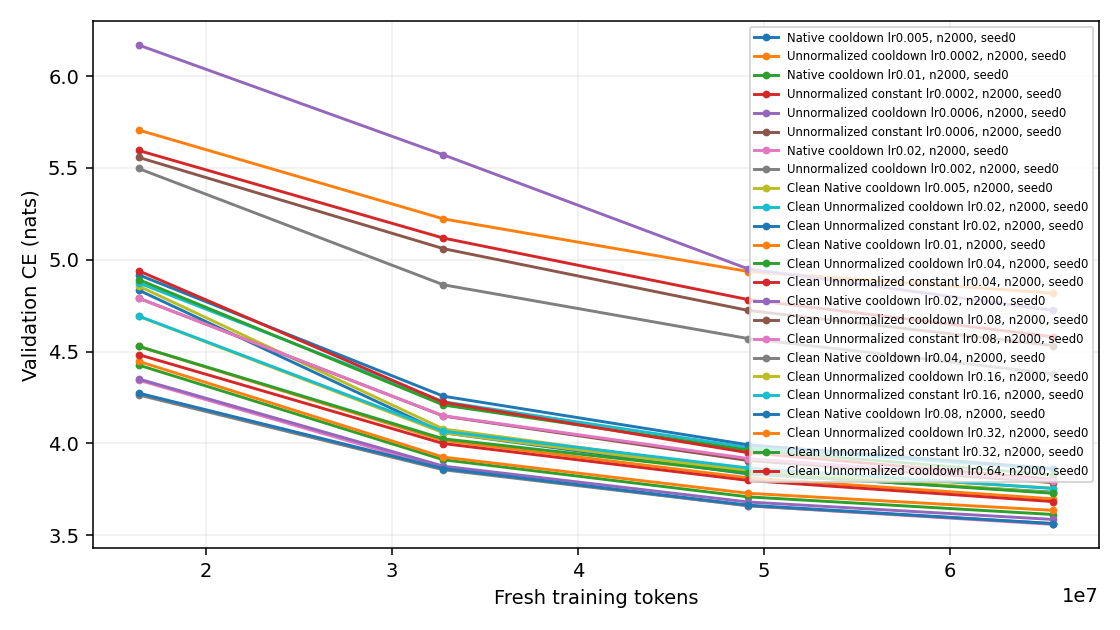
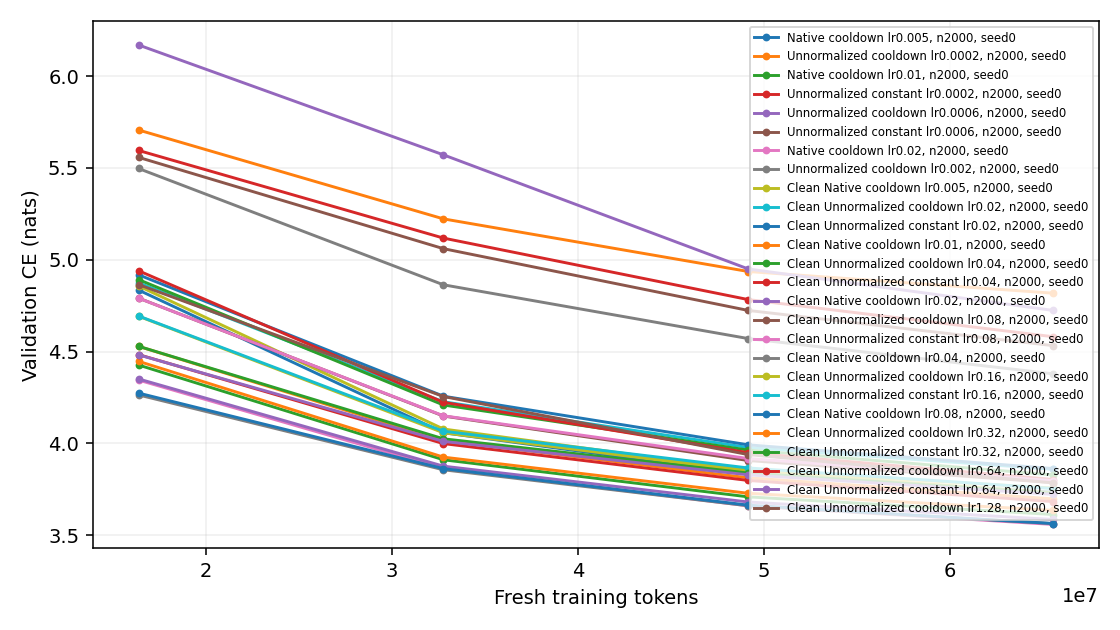
Update live Muon experiment results

diff --git a/research/unnormalized_muon/RESULTS.md b/research/unnormalized_muon/RESULTS.md
@@ -22,6 +22,8 @@ One B300 per job. CE is token cross-entropy (nats); lower is better. Rows with d
 | um-clean-grid-04-1-cooldown-lr0p32 | Clean Unnormalized cooldown | 2000 | 0 | 0.32 | 3.698252 | 1.121036 | — | 157.86 |
 | um-clean-grid-04-2-constant-lr0p32 | Clean Unnormalized constant | 2000 | 0 | 0.32 | 3.728677 | 1.130279 | — | 151.60 |
 | um-clean-grid-05-1-cooldown-lr0p64 | Clean Unnormalized cooldown | 2000 | 0 | 0.64 | 3.683407 | 1.116578 | — | 157.17 |
+| um-clean-grid-05-2-constant-lr0p64 | Clean Unnormalized constant | 2000 | 0 | 0.64 | 3.722817 | 1.128555 | — | 158.73 |
+| um-clean-grid-06-1-cooldown-lr1p28 | Clean Unnormalized cooldown | 2000 | 0 | 1.28 | 3.785215 | 1.147408 | — | 148.29 |
 | um-fw-diagnostic-001 | FW backtracking | 64 | 0 | 0.02 | 6.469995 | 1.960658 | — | 95.07 |
 | um-fw-diagnostic-002 | FW backtracking | 64 | 0 | 0.02 | 6.900428 | 2.091122 | — | 117.14 |
 | um-screen-00-0-native-lr0p005 | Native cooldown | 2000 | 0 | 0.005 | 3.734536 | 1.132046 | — | 145.49 |
@@ -37,7 +39,7 @@ One B300 per job. CE is token cross-entropy (nats); lower is better. Rows with d
 
 Review of um-fw-diagnostic-001: Compiled training f0 compared against functional candidate losses; vanishing-step mismatch2-4e-5 exceeded tolerance, leading to curvature1e186 and45 skipped steps. Replaced by paired functional reference and candidates; retain all645 measured forwards and GPUcost.
 
-Conservative charged/reserved total: 2.5227 / 10 B300 GPU-hours. Includes prior smoke/failed attempts and current maximum-duration reservations. Three-slot central queue; one B300 per run.
+Conservative charged/reserved total: 2.5716 / 10 B300 GPU-hours. Includes prior smoke/failed attempts and current maximum-duration reservations. Three-slot central queue; one B300 per run.
 
 Current CLEAN comparison: no row equilibration, NorMuon, or Muon decay in either arm. Same five Polar Express steps and Frobenius correction; scale by the per-matrix nonnegative FP32 inner product of the native Nesterov input with the NS/Frobenius direction. Shape scaling occurs once outside the scalar. Legacy rows retain production extras and must be compared separately. Constant schedule changes only matrix LR; auxiliary schedules and momentum remain matched.
 
